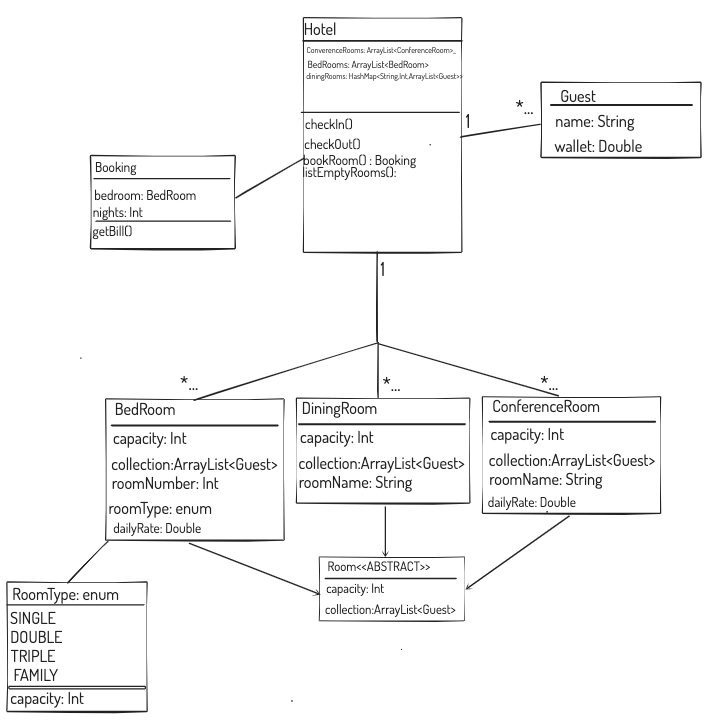
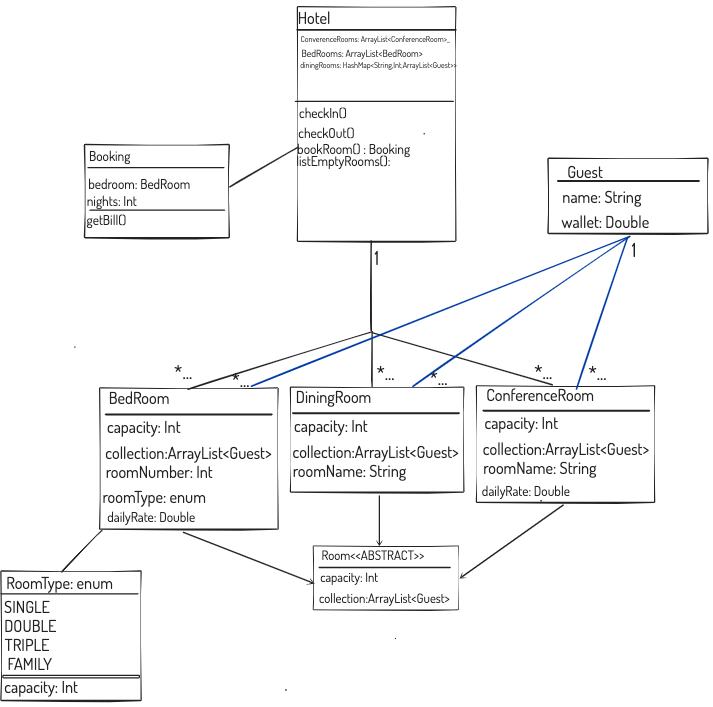
Refactored guests to be an arrayList<Guest> rather than array... added multiple methods for adding and removing guests from rooms and checks for whether room capacity is not being exceeded, allowing only if capacity exists. multiple extensive tests implemented and confirming code.

diff --git a/src/test/java/BedRoomTest.java b/src/test/java/BedRoomTest.java
@@ -1,0 +1,158 @@
+import humans.Guest;
+import org.junit.Before;
+import org.junit.Test;
+import rooms.BedRoom;
+import rooms.RoomType;
+
+import java.util.ArrayList;
+
+import static org.junit.Assert.assertEquals;
+import static org.junit.Assert.assertTrue;
+
+public class BedRoomTest {
+
+    BedRoom bedRoom1;
+    BedRoom bedRoom2;
+    BedRoom bedRoom3;
+    BedRoom bedRoom5;
+
+    Guest guest1;
+    Guest guest2;
+    Guest guest3;
+    Guest guest4;
+    Guest guest5;
+
+    ArrayList<Guest> guests1;
+    ArrayList<Guest> guests2;
+    ArrayList<Guest> guests3;
+    ArrayList<Guest> guests4;
+    ArrayList<Guest> guests5;
+
+    @Before
+    public void before(){
+        // CREATE GUESTLists
+        guests1 = new ArrayList<Guest>();
+        guests2 = new ArrayList<Guest>();
+        guests3 = new ArrayList<Guest>();
+        guests4 = new ArrayList<Guest>();
+        guests5 = new ArrayList<Guest>();
+
+        //CREATE BEDROOMS TO TEST
+        bedRoom1 = new BedRoom(1, RoomType.SINGLE);
+        bedRoom2 = new BedRoom(2, RoomType.DOUBLE);
+        bedRoom3 = new BedRoom(3, RoomType.TRIPLE);
+        bedRoom5 = new BedRoom(4, RoomType.FAMILY);
+
+        //CREATE GUESTS TO TEST
+        //#1
+        guest1 = new Guest();
+        guest1.setName("Marek");
+        guest1.setWallet(200.00);
+        //#2
+        guest2 = new Guest();
+        guest2.setName("Jonny");
+        guest2.setWallet(300.00);
+        //#3
+        guest3 = new Guest();
+        guest3.setName("Callum");
+        guest3.setWallet(500.00);
+        //#4
+        guest4 = new Guest();
+        guest4.setName("Tim");
+        guest4.setWallet(350.00);
+        //#5
+        guest5 = new Guest();
+        guest5.setName("Ben");
+        guest5.setWallet(250.00);
+
+        // POPULATE GUEST LISTS WITH GUESTS
+        guests1.add(guest1);
+
+        guests2.add(guest1);
+        guests2.add(guest2);
+
+        guests3.add(guest2);
+        guests3.add(guest3);
+        guests3.add(guest4);
+
+        guests4.add(guest1);
+        guests4.add(guest2);
+        guests4.add(guest4);
+        guests4.add(guest5);
+
+        guests5.add(guest1);
+        guests5.add(guest2);
+        guests5.add(guest3);
+        guests5.add(guest4);
+        guests5.add(guest5);
+
+    }
+
+    @Test
+    public void bedRoomsHaveTheRightCapacityOnInitiationBasedOnType(){
+        assertEquals(1, bedRoom1.getCapacity());
+        assertEquals(2, bedRoom2.getCapacity());
+        assertEquals(3, bedRoom3.getCapacity());
+        assertEquals(5, bedRoom5.getCapacity());
+    }
+
+    @Test
+    public void bedroomsHaveNoGuestsAtCreation(){
+
+        assertEquals(0, bedRoom1.getGuests().size());
+        assertEquals(0, bedRoom2.getGuests().size());
+        assertEquals(0, bedRoom3.getGuests().size());
+        assertEquals(0, bedRoom5.getGuests().size());
+
+    }
+
+    @Test
+    public void guestCanBeAddedAndRemovedFromRooms(){
+        //Add guest1 by means of overwriting guests with array of guests
+        bedRoom1.setGuests(guests1);
+        assertEquals(1, bedRoom1.getCapacity());
+        assertEquals(guest1, bedRoom1.getGuests().get(0));
+
+        //remove all guests by overwriting guests with empty array
+        bedRoom1.removeAllGuests();
+        assertEquals(0, bedRoom1.getGuests().size());
+
+        //Can retrieve a specific guest from room.
+        bedRoom1.setGuests(guests1);
+        assertEquals(1, bedRoom1.getCapacity());
+        Guest retrieved = bedRoom1.removeAGuest(guest1);
+        assertEquals(retrieved, guest1);
+        assertEquals(0, bedRoom1.getGuests().size());
+
+        //Can add a specific guest to room
+        bedRoom1.removeAllGuests();
+        bedRoom1.addGuest(guest1);
+        assertTrue(bedRoom1.getGuests().contains(guest1));
+
+    }
+
+    @Test
+    public void cannotAddToRoomBeyondCapacity(){
+        assertEquals(5, bedRoom5.getCapacity());
+        bedRoom5.setGuests(guests4);
+        assertEquals(4,bedRoom5.getGuests().size());
+        bedRoom5.addGuest(guest3);
+        assertEquals(5,bedRoom5.getGuests().size());
+        bedRoom5.addGuest(guest3);
+        assertEquals(5,bedRoom5.getGuests().size());
+
+        bedRoom5.removeAllGuests();
+        assertEquals(0,bedRoom5.getGuests().size());
+        bedRoom5.addGroup(guests2);
+        assertEquals(2,bedRoom5.getGuests().size());
+        bedRoom5.addGroup(guests4);
+        assertEquals(2,bedRoom5.getGuests().size());
+
+    }
+
+
+
+
+
+
+}

diff --git a/src/main/java/rooms/Room.java b/src/main/java/rooms/Room.java
@@ -1,0 +1,71 @@
+package rooms;
+
+import humans.Guest;
+
+import java.util.ArrayList;
+
+public abstract class Room {
+    private int capacity;
+    private ArrayList<Guest> guests;
+
+    public Room() {
+        this.capacity = 0;
+        this.guests = new ArrayList<Guest>();
+    }
+
+    public int getCapacity() {
+        return capacity;
+    }
+
+    public void setCapacity(int capacity) {
+        this.capacity = capacity;
+        removeAllGuests();
+
+    }
+
+    public ArrayList<Guest> getGuests() {
+        return guests;
+    }
+
+    public void removeAllGuests() {
+        guests = new ArrayList<Guest>();
+    }
+
+    public Guest removeAGuest(Guest guest) {
+        Guest removed = new Guest();
+        if(guests.contains(guest)){
+            removed = guest;
+            guests.remove(guest);
+        }
+
+        return removed;
+    }
+
+    private Boolean canAddOne(){
+        return guests.size()<capacity;
+    }
+
+    private Boolean canAddSet(ArrayList<Guest> moreGuests){
+        return moreGuests.size()<=capacity-guests.size();
+    }
+
+    public void addGuest(Guest guest){
+        if (canAddOne()){
+            guests.add(guest);
+        }
+    }
+
+    public void addGroup(ArrayList<Guest> moreGuests){
+        if(canAddSet(moreGuests)){
+
+            for (int i =0; i <moreGuests.size(); i++){
+                guests.add(moreGuests.get(i));
+            }
+        }
+    }
+
+    public void setGuests(ArrayList<Guest> guests) {
+        if(canAddSet(guests)){
+        this.guests = guests;}
+    }
+}

diff --git a/src/test/java/GuestTest.java b/src/test/java/GuestTest.java
@@ -1,7 +1,9 @@
+import humans.Guest;
 import org.junit.Before;
 import org.junit.Test;
 
 import static org.junit.Assert.assertEquals;
+import static org.junit.Assert.assertNotEquals;
 
 public class GuestTest {
 
@@ -22,6 +24,28 @@ public class GuestTest {
     @Test
     public void GuestHasNoNameAtInitialisation(){
         assertEquals("", guest1.getName());
+        assertEquals(0, guest1.getName().length());
     }
+    @Test
+    public void RandomiserCanChangeName(){
+        assertNotEquals(0.00, guest2.getName().length());
+        assertNotEquals("", guest2.getName());
+    }
+    @Test
+    public void RandomiserCanChangeWallet(){
+        assertNotEquals(0.00, guest2.getWallet());
+    }
+
+    @Test
+    public void GuestCanBeAssignedNewName(){
+        guest1.setName("Jonny no 5");
+        assertEquals("Jonny no 5", guest1.getName());
+        guest1.setName("Hallo!");
+        assertEquals("Hallo!", guest1.getName());
+
+
+    }
+
+
 
 }

diff --git a/src/main/java/rooms/BedRoom.java b/src/main/java/rooms/BedRoom.java
@@ -1,0 +1,17 @@
+package rooms;
+
+public class BedRoom extends Room {
+
+    private int roomNumber;
+    private RoomType type;
+
+    public BedRoom(int roomNumber, RoomType type) {
+        this.roomNumber = roomNumber;
+        this.type = type;
+        this.setCapacity(type.getCapacity());
+
+    }
+
+
+
+}

diff --git a/src/main/java/rooms/RoomType.java b/src/main/java/rooms/RoomType.java
@@ -1,0 +1,19 @@
+package rooms;
+
+public enum RoomType {
+    SINGLE(1),
+    DOUBLE(2),
+    TRIPLE(3),
+    FAMILY(5),
+    ;
+
+    private final int capacity;
+
+    RoomType(int capacity) {
+        this.capacity= capacity;
+    }
+
+    public int getCapacity(){
+        return this.capacity;
+    }
+}

diff --git a/src/main/java/humans/Guest.java b/src/main/java/humans/Guest.java
@@ -1,5 +1,4 @@
-import java.lang.reflect.Array;
-import java.util.ArrayList;
+package humans;
 
 public class Guest {
 

diff --git a/src/main/java/rooms/ConferenceRoom.java b/src/main/java/rooms/ConferenceRoom.java
@@ -1,0 +1,4 @@
+package rooms;
+
+public class ConferenceRoom extends Room {
+}

diff --git a/src/main/java/rooms/DiningRoom.java b/src/main/java/rooms/DiningRoom.java
@@ -1,0 +1,4 @@
+package rooms;
+
+public class DiningRoom extends Room{
+}

diff --git a/README.md b/README.md
@@ -8,12 +8,14 @@ A hotel booking App:
 - abstract classes and inheritance
 - encapsulation
 - HashMaps
+- logic and problem solving
+- packages
 
 #### Requirements:
 - Java compiler & Java
 
 ## Classes tested:
-- [ ] one
+- [ ] Randomised.java + Guest.java via GuestTest.java, test count: 4
 - [ ] two
 - [ ] three
 - [ ] four
@@ -50,6 +52,7 @@ A hotel booking App:
 ## Planning practice:
 - [x] Class diagram
 - [ ] Acceptance Criteria
+- [ ] 
 
 ## Images:
 ##### Class diagram: 
